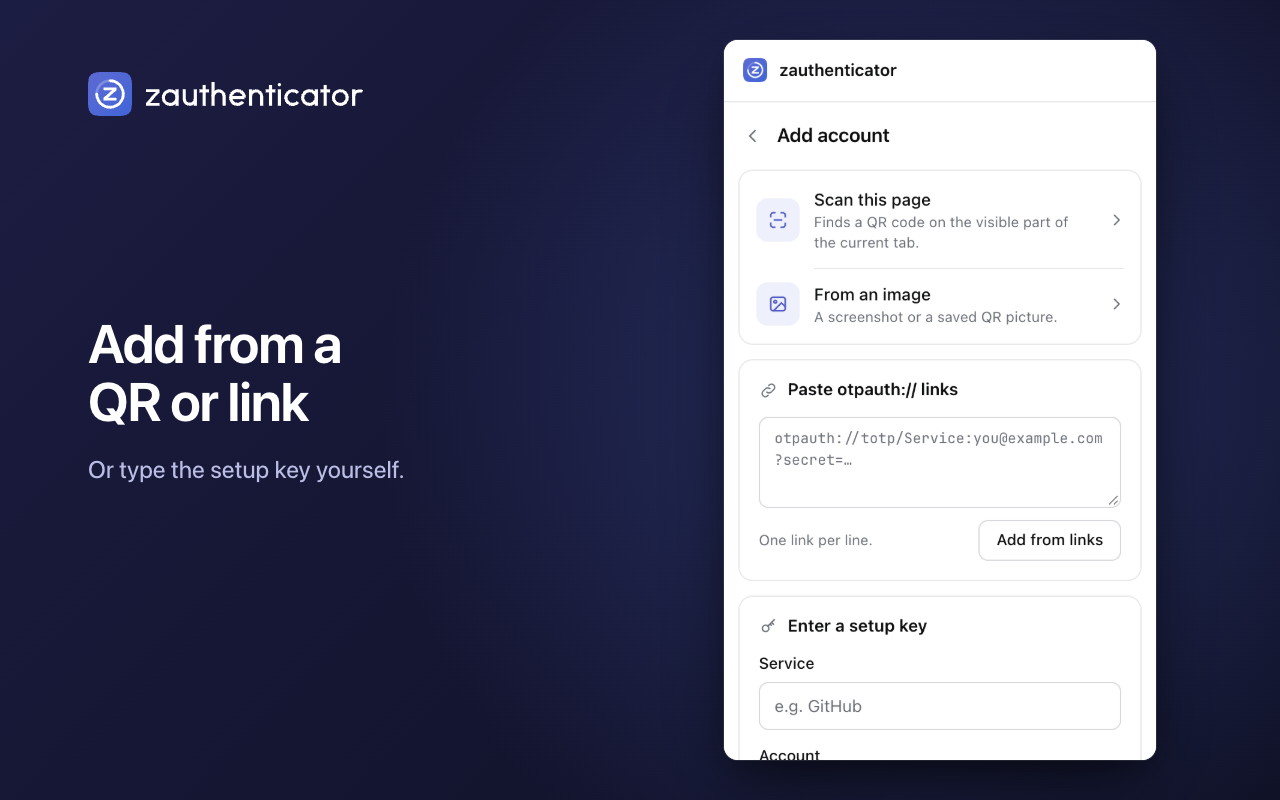
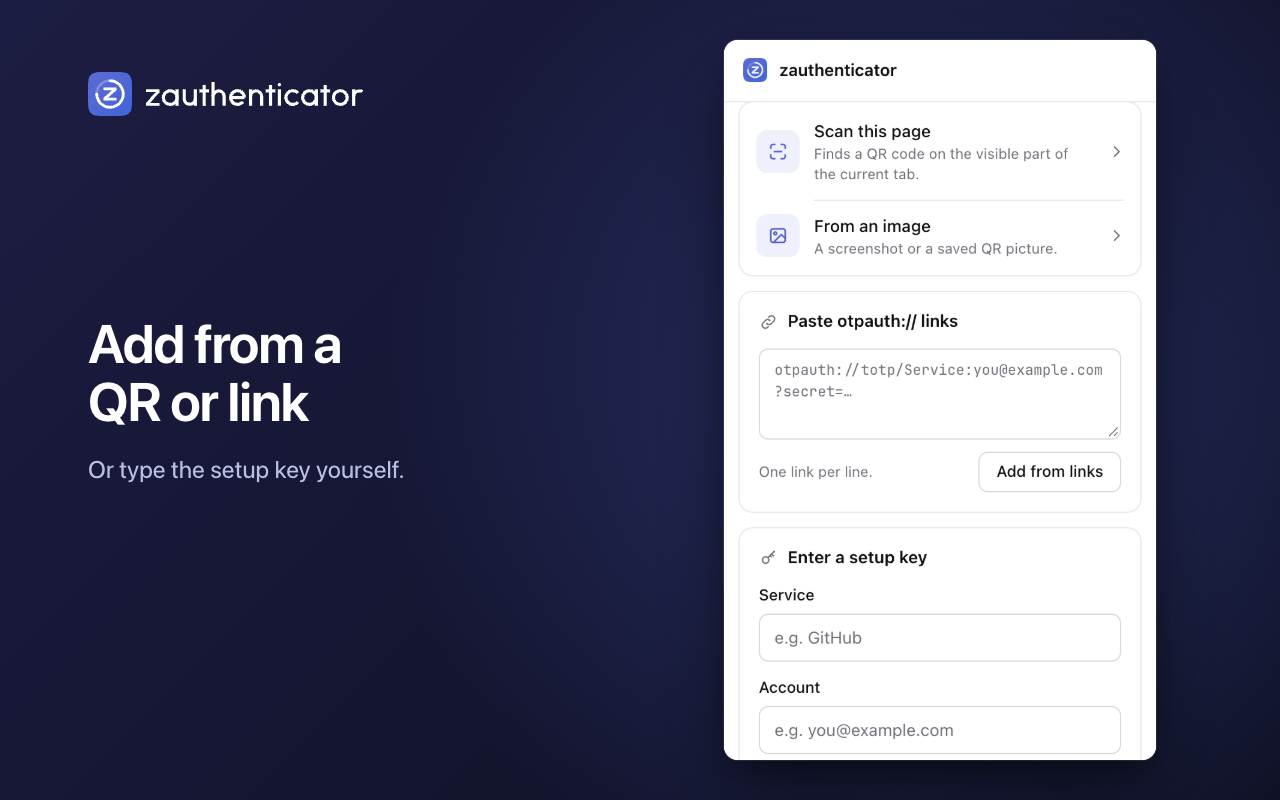
store: 4-add scrolled so no text is cut at the popup edge; listing label check recorded

diff --git a/store/listing/edge-addons.md b/store/listing/edge-addons.md
@@ -151,8 +151,7 @@ Optional, but the extension must be fully testable and the notes help testers re
 source: https://learn.microsoft.com/en-us/microsoft-edge/extensions/publish/publish-extension, checked 2026-11-16
 source: https://learn.microsoft.com/en-us/legal/microsoft-edge/extensions/developer-policies, checked 2026-11-16
 
-Before pasting, check the quoted button labels against the released popup (the UI was being
-redesigned when this was written).
+Quoted labels checked against `extension/_locales/en/messages.json` on 2026-11-17 (v0.2.0).
 
 ```text
 zauthenticator generates two-factor (TOTP) codes on the device. It needs no account, server or test credentials, and it makes no network requests.

diff --git a/store/listing/submission-checklist.md b/store/listing/submission-checklist.md
@@ -29,7 +29,7 @@ and [edge-addons.md](edge-addons.md). Facts were checked on 2026-11-16 against t
 | `store/assets/screenshots/4-add.png` | 1280×800 | both stores |
 | `store/assets/screenshots/5-settings.png` | 1280×800 | both stores |
 
-- [ ] The button labels quoted in the certification notes match the released popup.
+Quoted labels checked against `extension/_locales/en/messages.json` on 2026-11-17 (v0.2.0).
 
 ## 1. Accounts (once)
 
